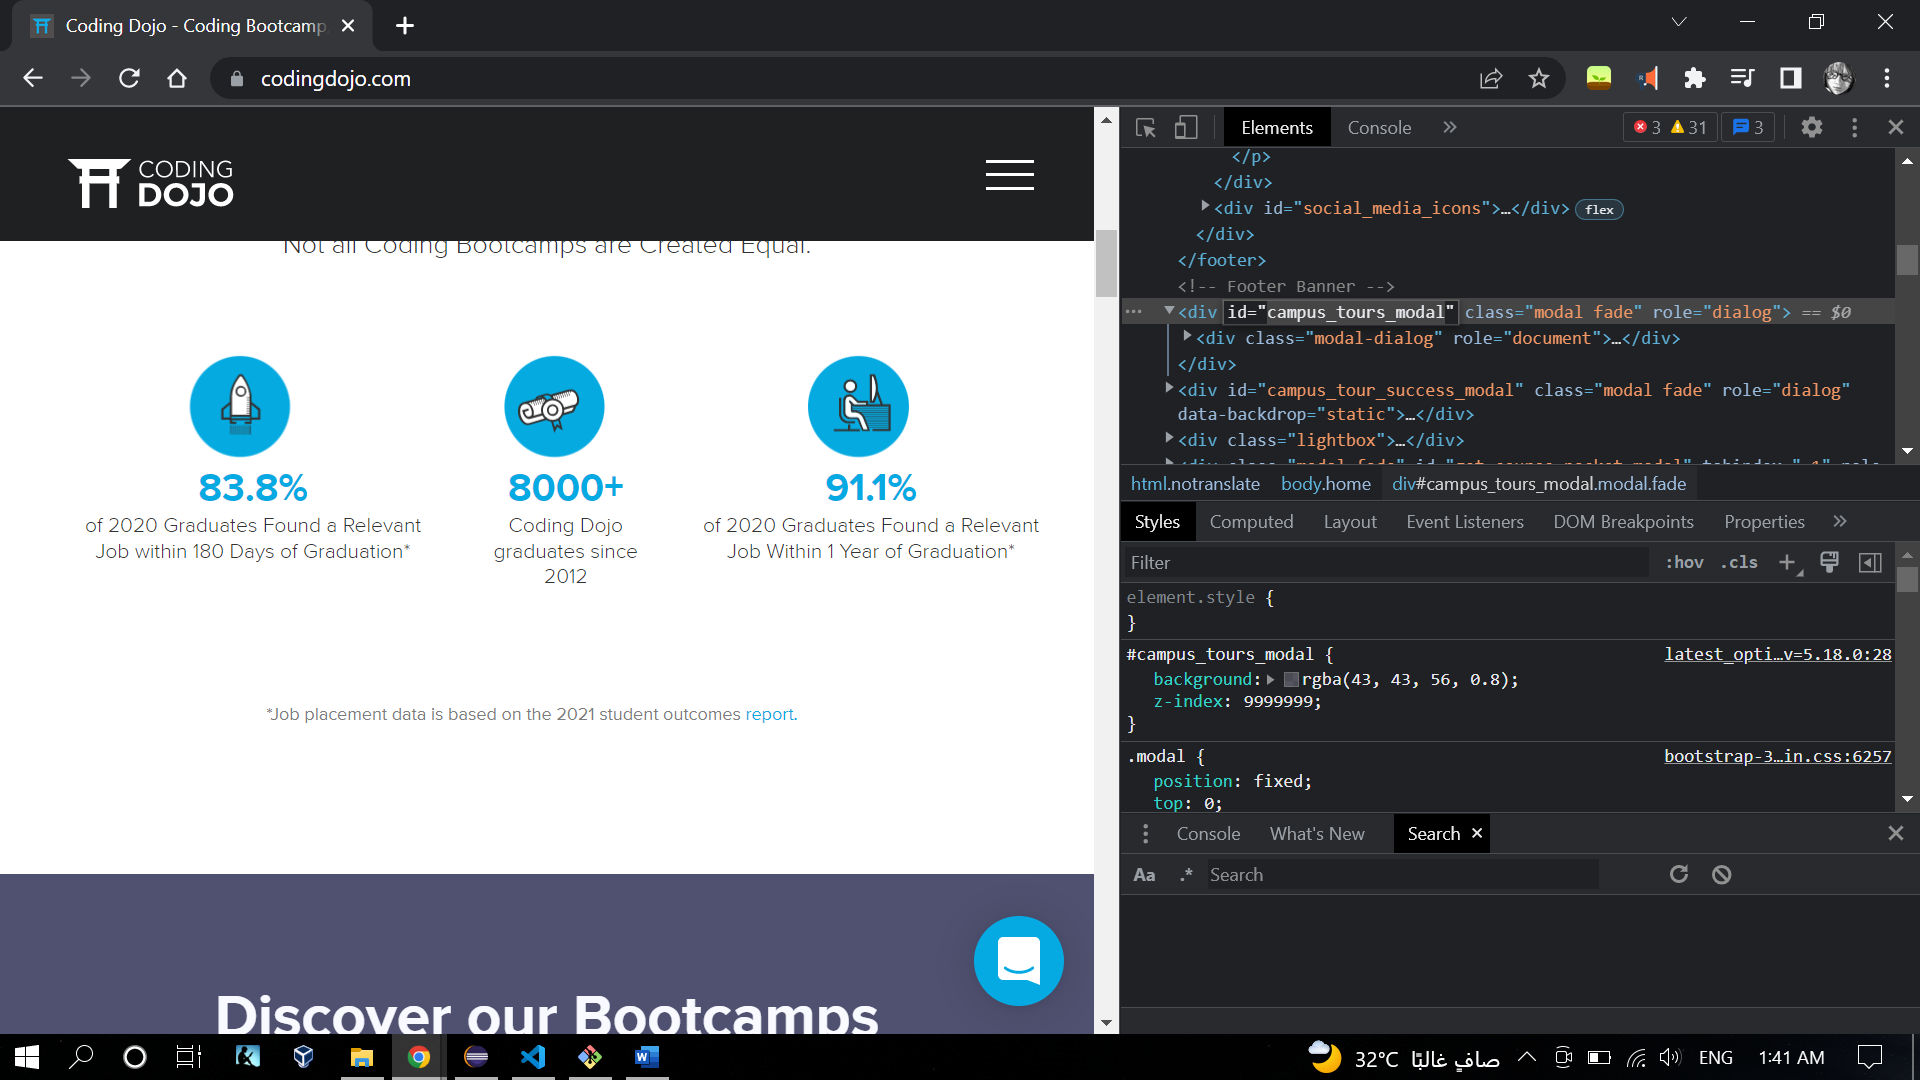
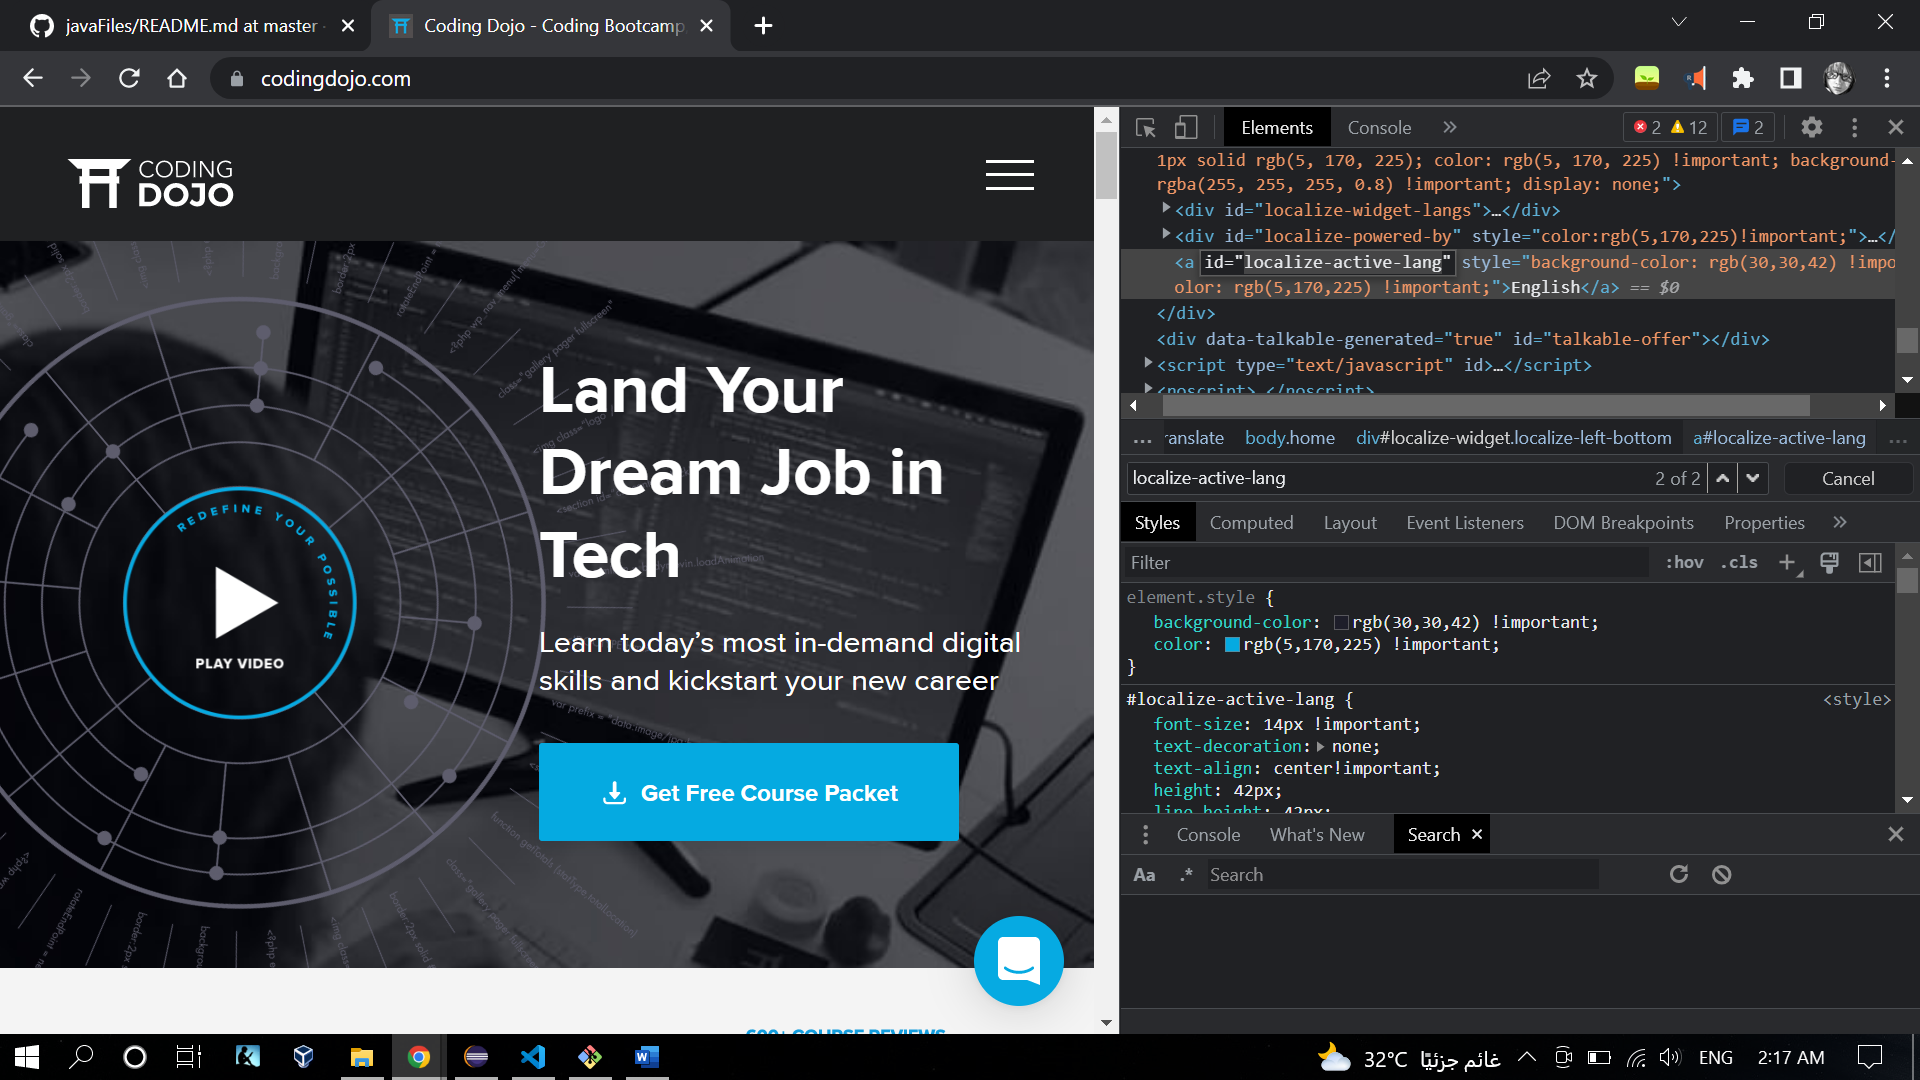
EditaddNewFolder

diff --git a/WebElementsUsingID/README.md b/WebElementsUsingID/README.md
@@ -1,11 +1,12 @@
 ### Follow the below steps to locate web elements using Chrome’s Developer tool:
 
-* Step #1: launch the Google Chrome’s Developer tool. 
+* Step #1: launch the Google Chrome’s Developer tool.
 <img src="img/img1.png" />
 
-* locate the desired object within the web page. Right-click on the desired web element and inspect. 
+* Step #2: locate the desired object within the web page. Right-click on the desired web element and inspect. 
 <img src="img/img2.png" />
 
+* Step #3: Click on Ctrl+F, and type 'localize-active-lang'
 ### Source Code
 ```Java
 package codingDojo;
